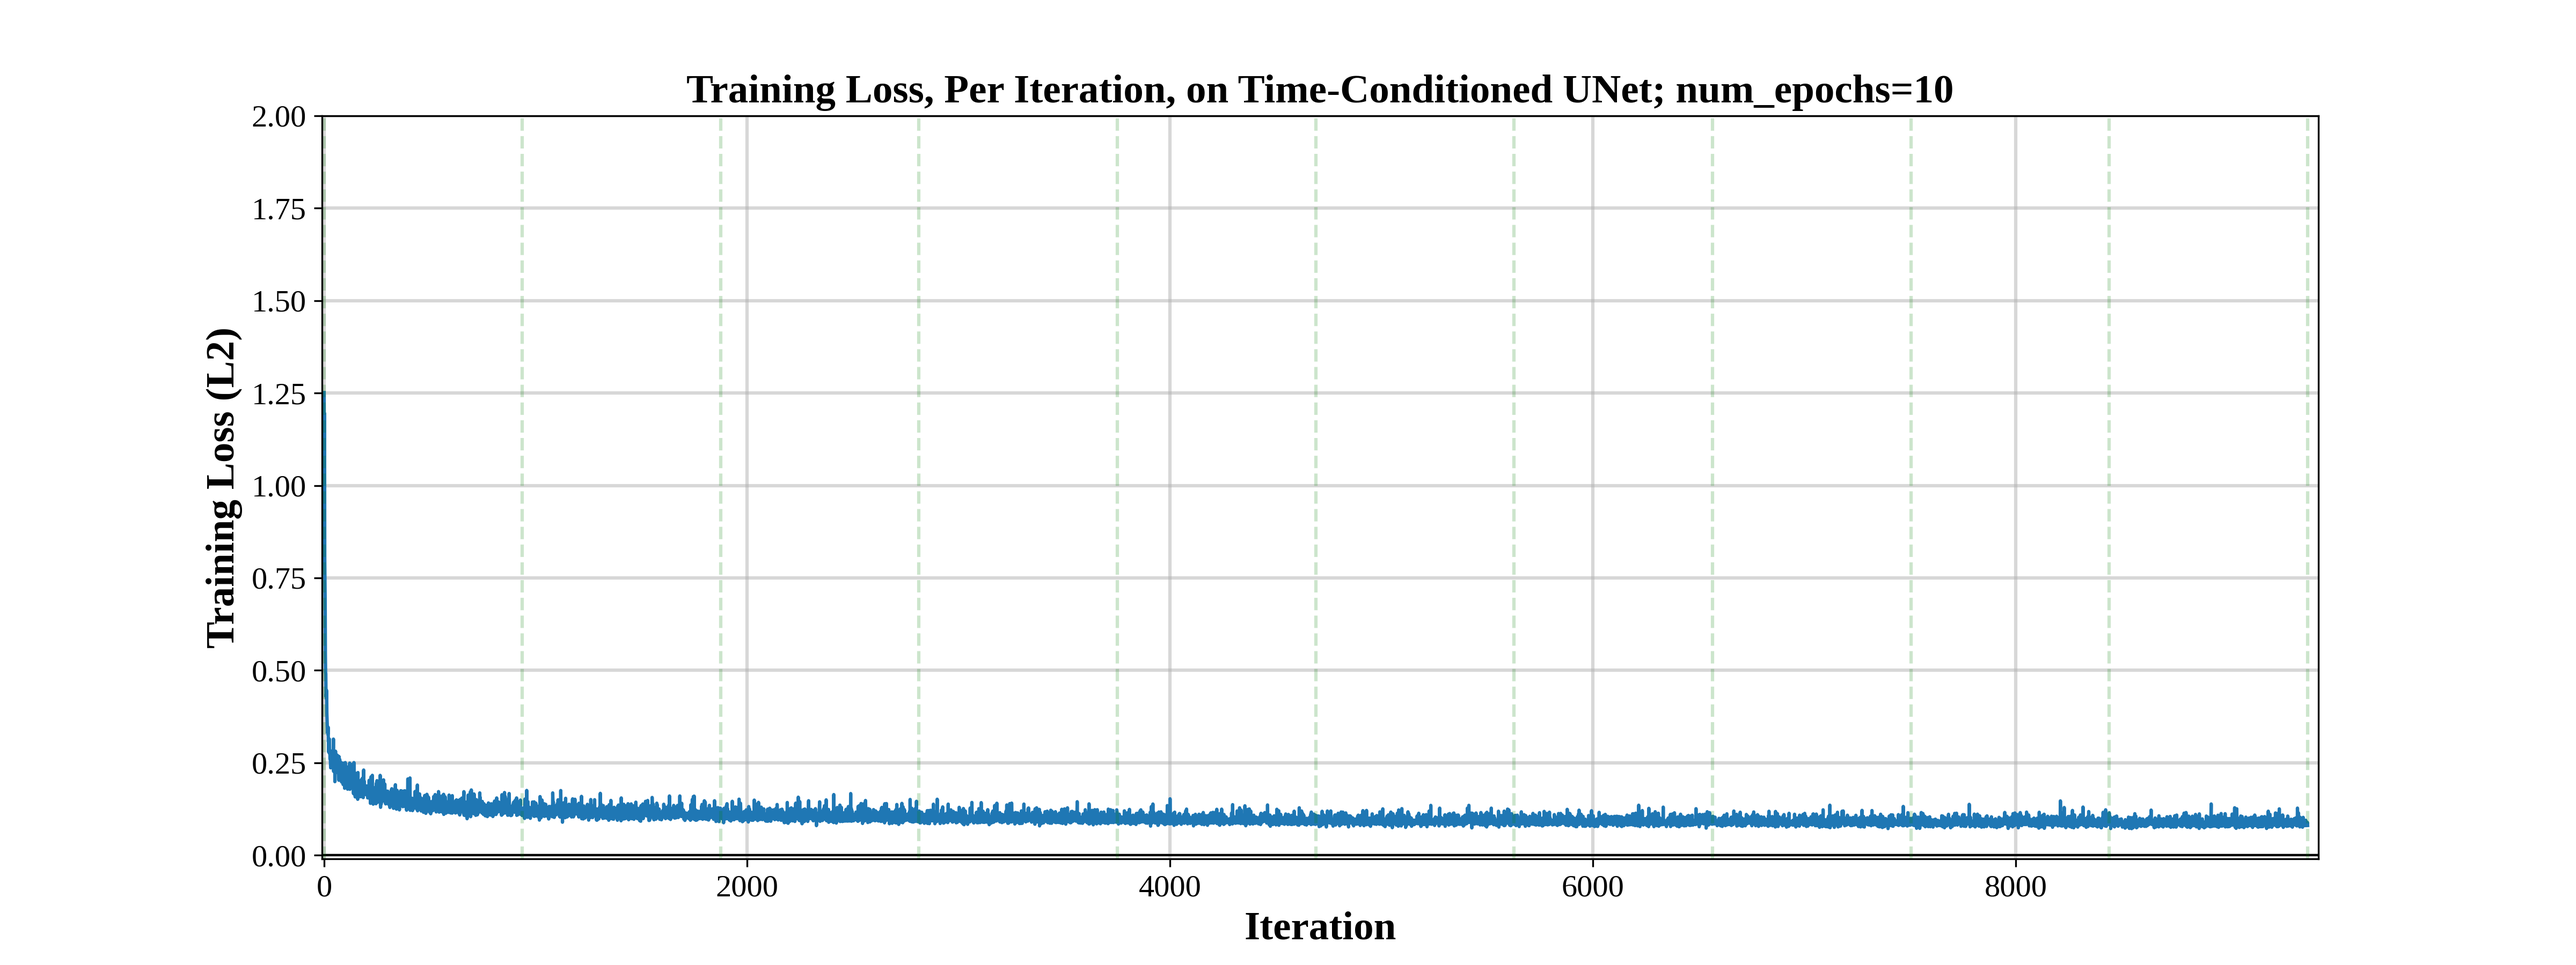
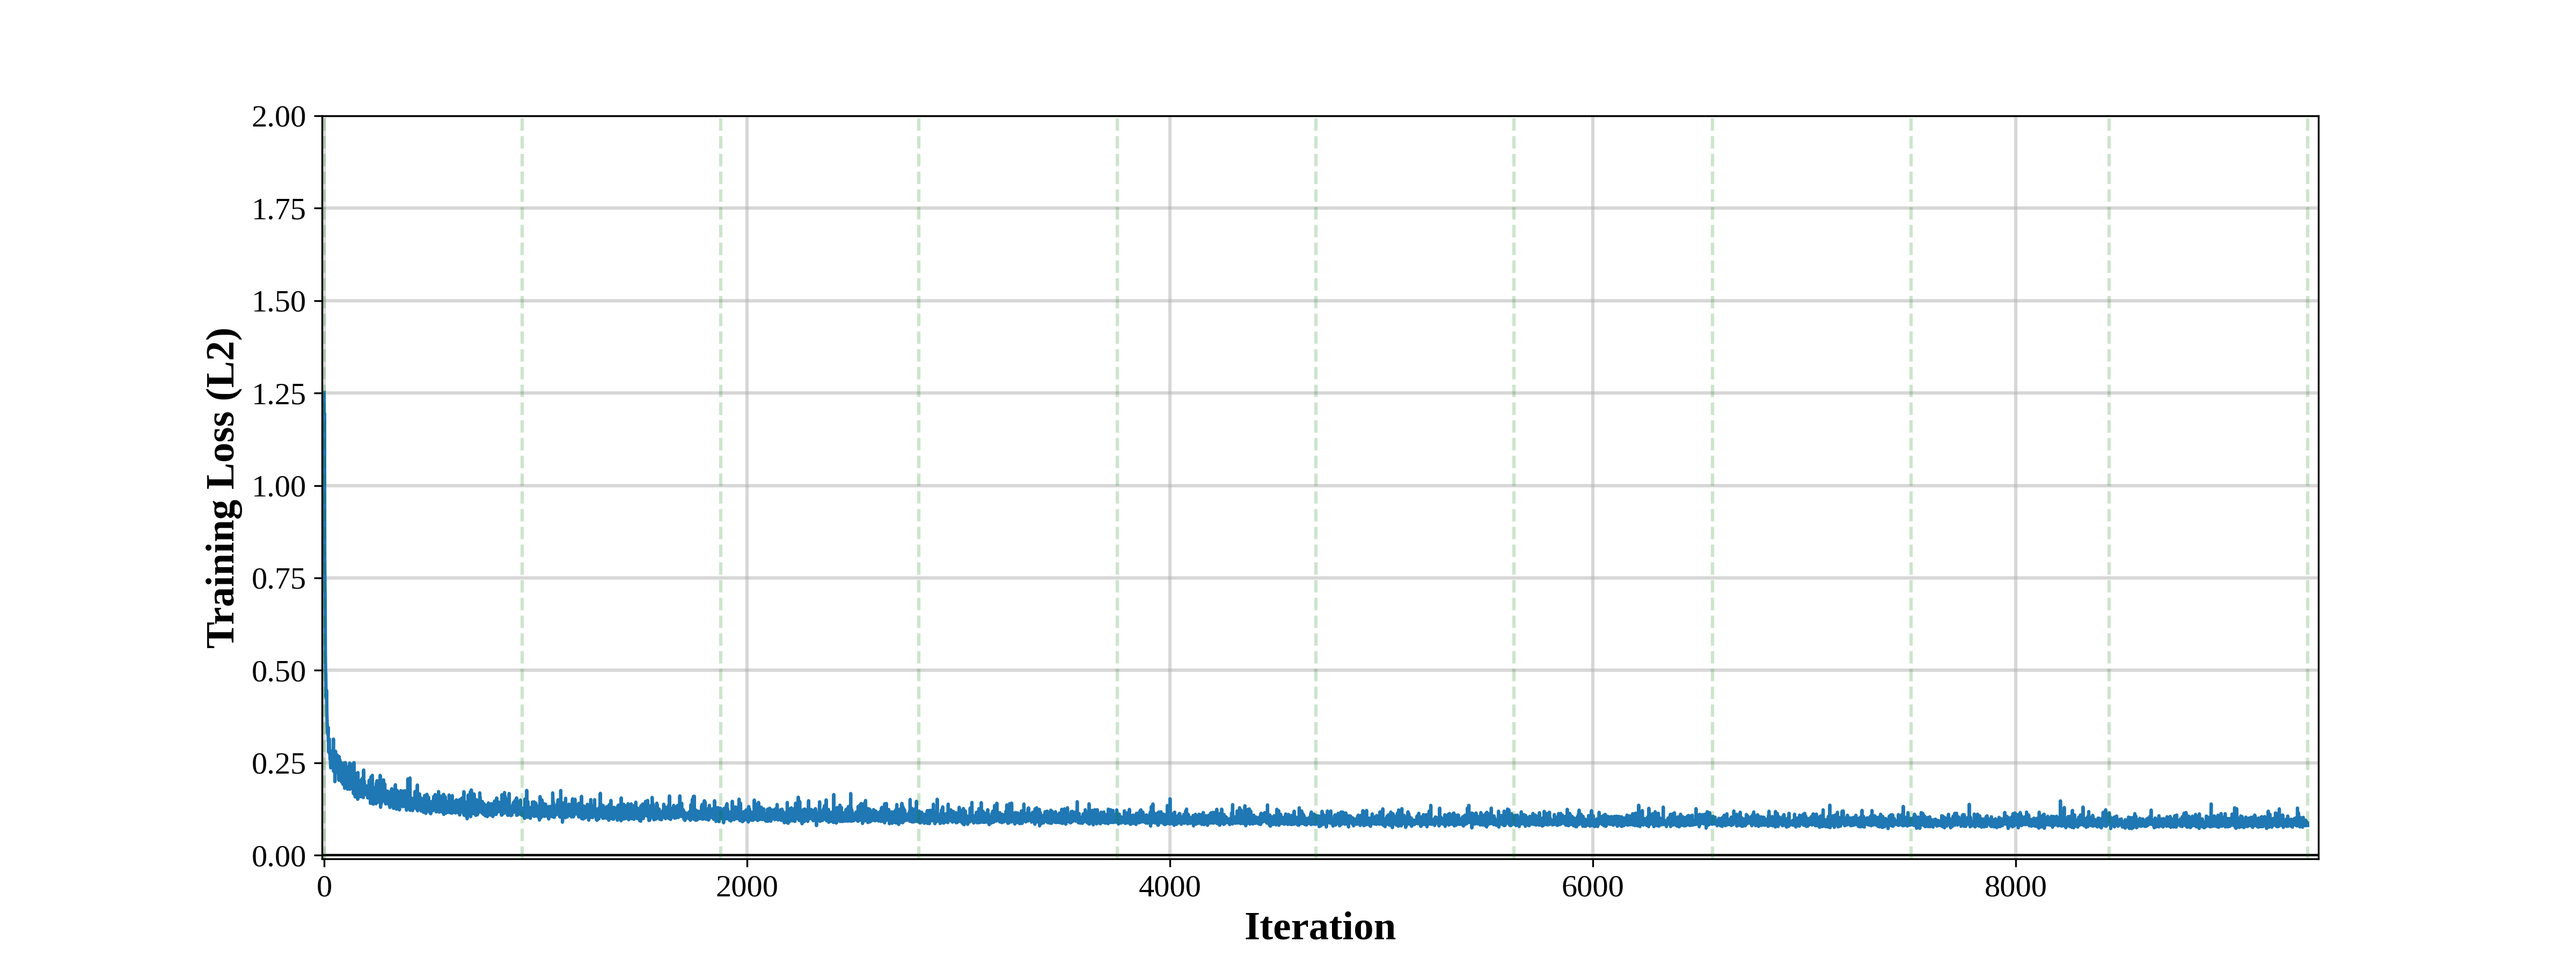
delivs

Changed region(s): [[0.2812, 0.0622, 0.75, 0.1244]]

diff --git a/project5/index.html b/project5/index.html
@@ -469,7 +469,7 @@
                                              <p> To train, I used a AdamW optimizer, as well as an exponential learning rate decay scheduler. </p>
                                             <p> Hyperparameters: </p> <ul> <li>batch_size = 64</li> <li>(starting) learning_rate = 1e-2</li><li>num_epochs = 10</li> <li>hidden_dim = 64</li> <li>scheduler gamma = 0.1**(1/num_epochs) </li> <li> in-dimensions to unet: 1 </li> </ul>
 
-                                                                     <h3> Training loss: class-conditioned UNet over all 10 epochs. </h3> <figure> <img src = "part B pt2/addclasscond/training_curve.png" >  <figcaption>Training Loss Curve: Low loss achieved </figcaption></figure> <p> Loss quickly decreases and begins to converge across all 10 epochs. The faint green lines demark the end of an epoch. </p>
+                                                                     <h3> Training loss: class-conditioned UNet over all 10 epochs. </h3> <figure> <img src = "part B pt2/addclasscond/training_curve.png" >  <figcaption>Training Loss, Per Iteration, On Class-conditioned UNet <code>num_epochs = 10</code>: Low loss achieved </figcaption></figure> <p> Loss quickly decreases and begins to converge across all 10 epochs. The faint green lines demark the end of an epoch. </p>
 <h2> 2.6 Sampling from the UNet </h2> To actually see the results from the class-conditioned UNet, I sampled from the model using classifer-free guidance, with guidance scale <code> gamma = 5.0 </code>. <p> First, I start with a noisy image x0 sampled from Gaussian noise. Then, from t = 0 (noisy) to t = 1 (clean), I iterate along the flow in small stepsizes (stepsize = 1/T).Per iteration, I first predict the unconditioned flow <code>u_uncond</code> with the class conditioning vector <code>c</code> set to be a vector of all 0s. This predicts the flow vector ignoring target class. Then, I predict the conditioned flow <code>u_cond</code> with the class conditioning vector <code> c </code> to predict the flow vector for the desired class. Then, I apply Classifer-free guidance, using the formula in line 6. I find the guided flow vector <code> u = u_uncond + gamma * (u_cond - u_uncond) </code>. This pushes us toward the feature space of the desired class determined by <code> c</code> by a factor proportional to <code> gamma </code>. Then, we update x_t, our running prediction, by incorporating the guided flow vector. This repeats until t = 1 and we predict x_1.<br> This is the algorithm implemented in the samplinng process:</p> <figure> <img src = "part B pt2/alg4.png" > </figure>
 
                                                         <h3> Sampling results from the Class-Conditioned UNet for 1, 5, and 10 epochs: </h3>      <div class = "image-column">   <figure> <img src = "part B pt2/addclasscond/class_conditional_samples_epoch_1.png" style="width:800px;">  <figcaption> Epoch 1 </figcaption>  </figure> 
